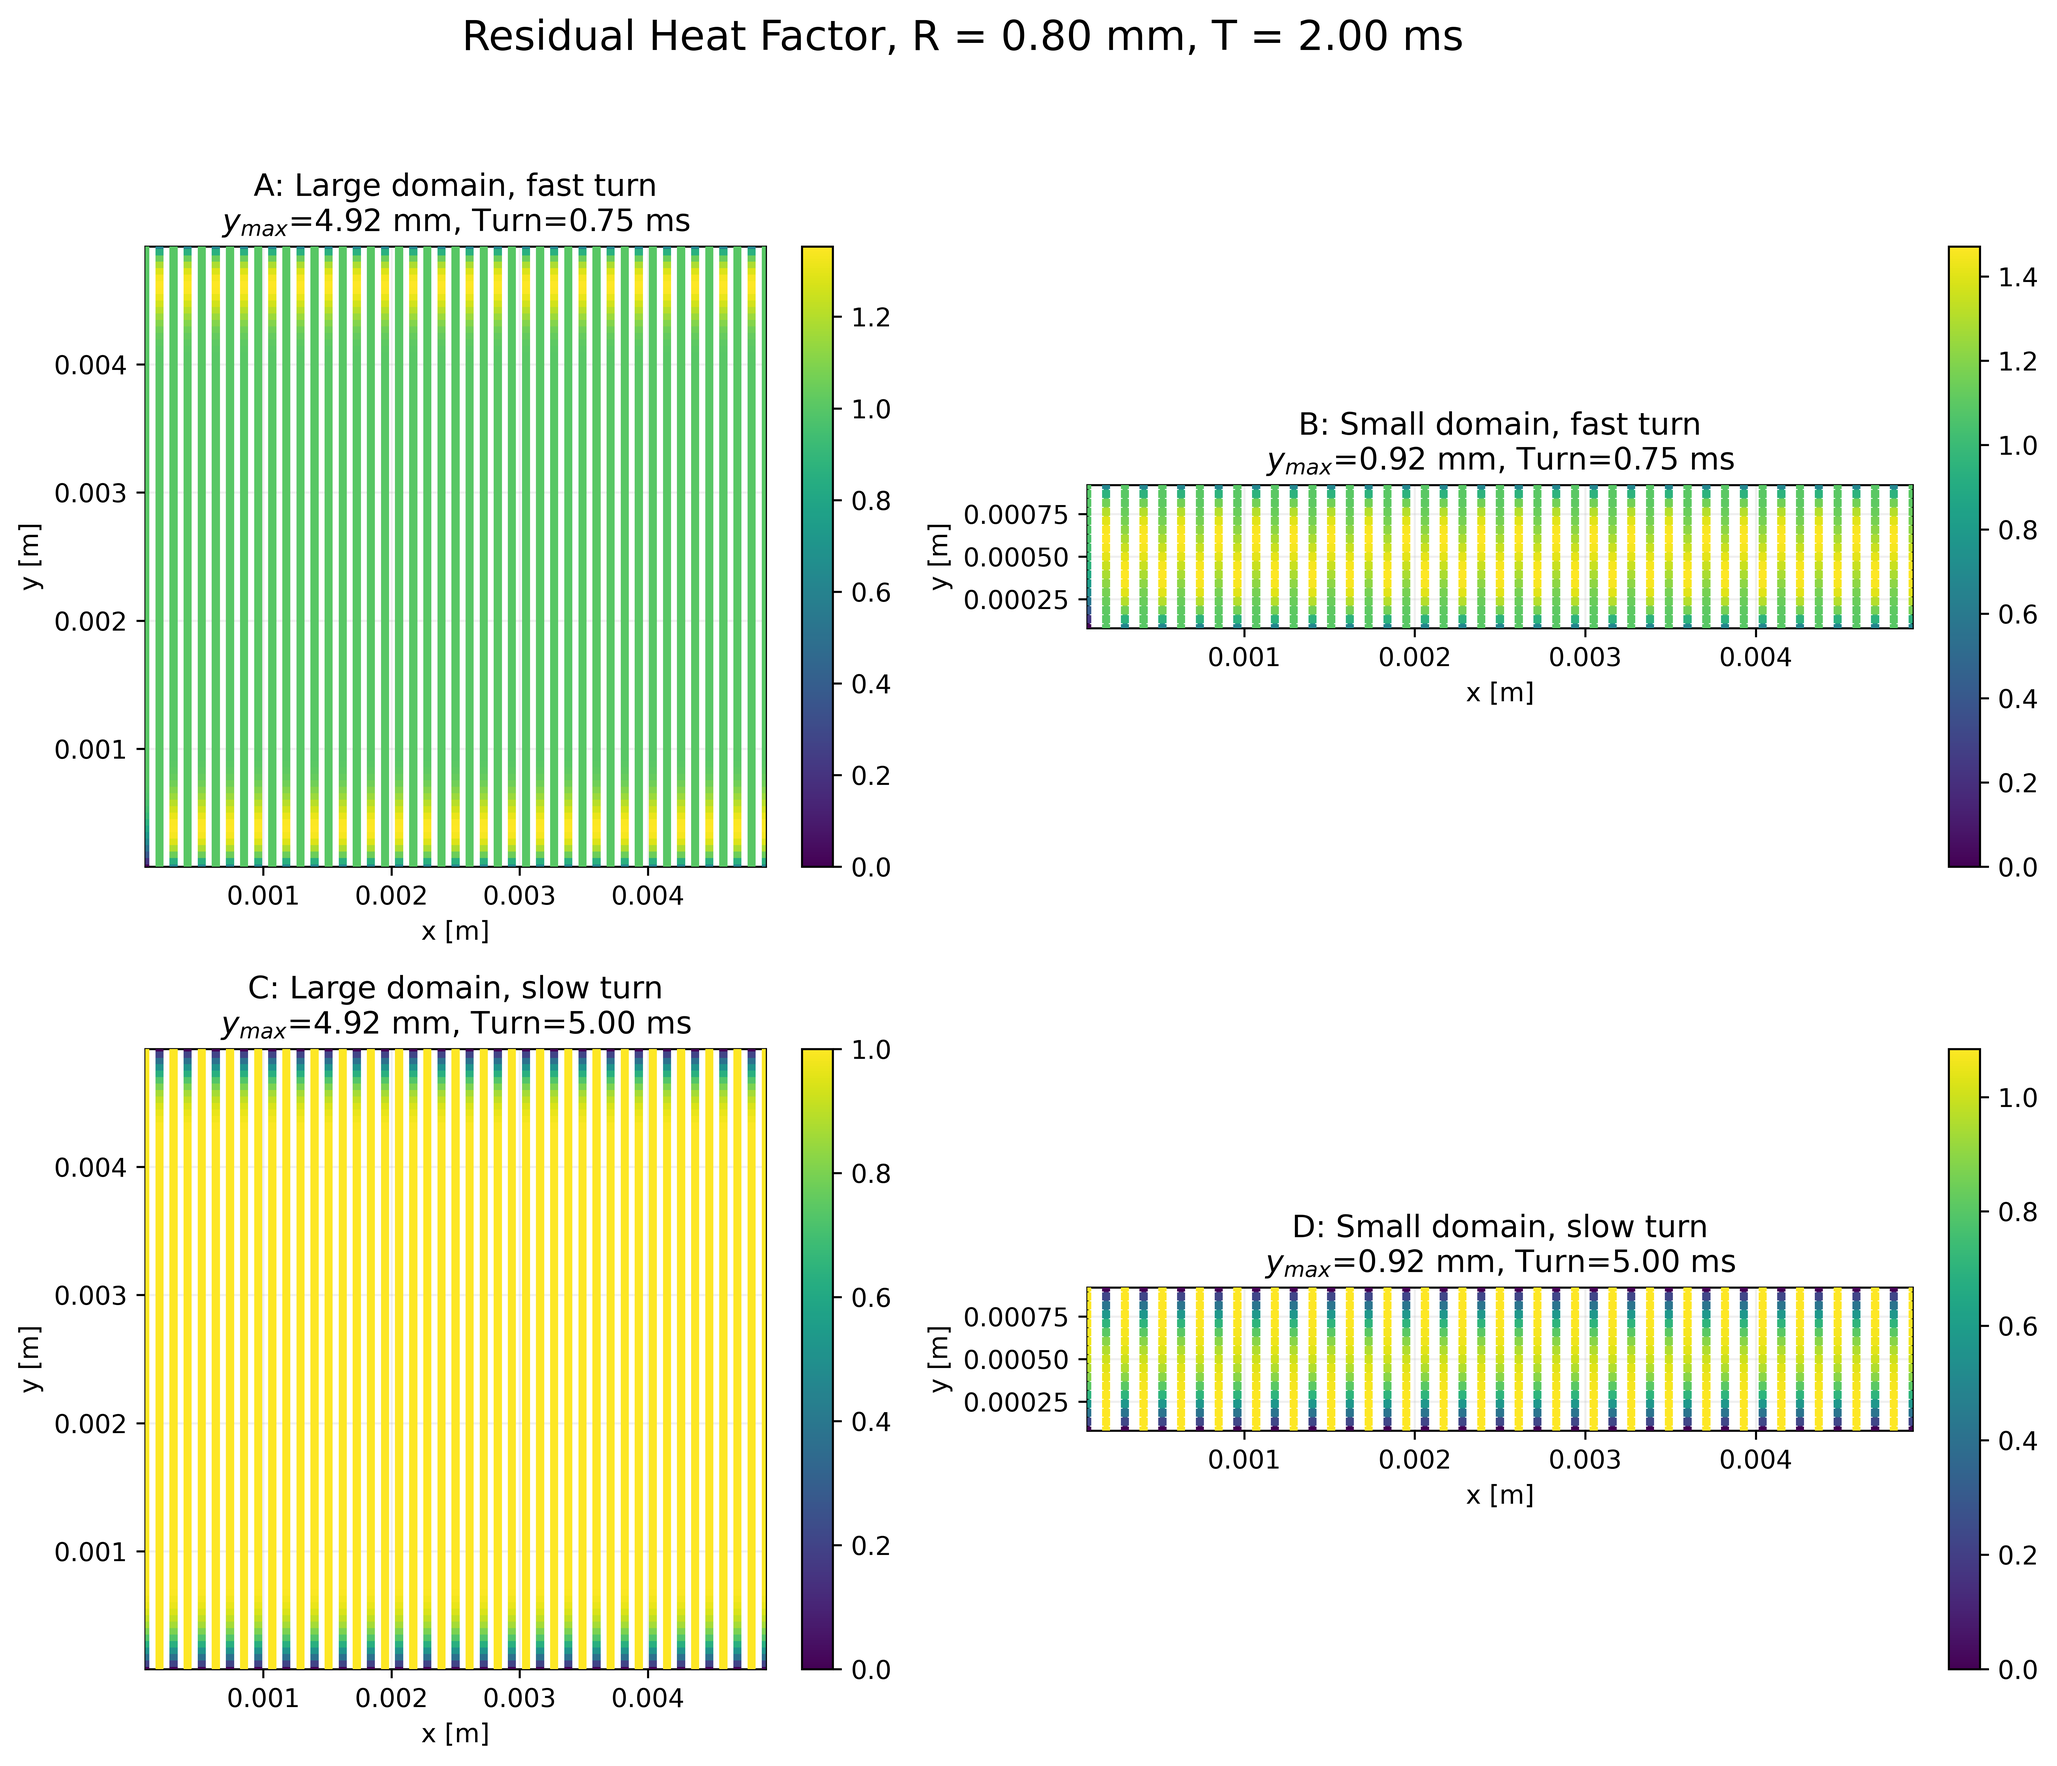
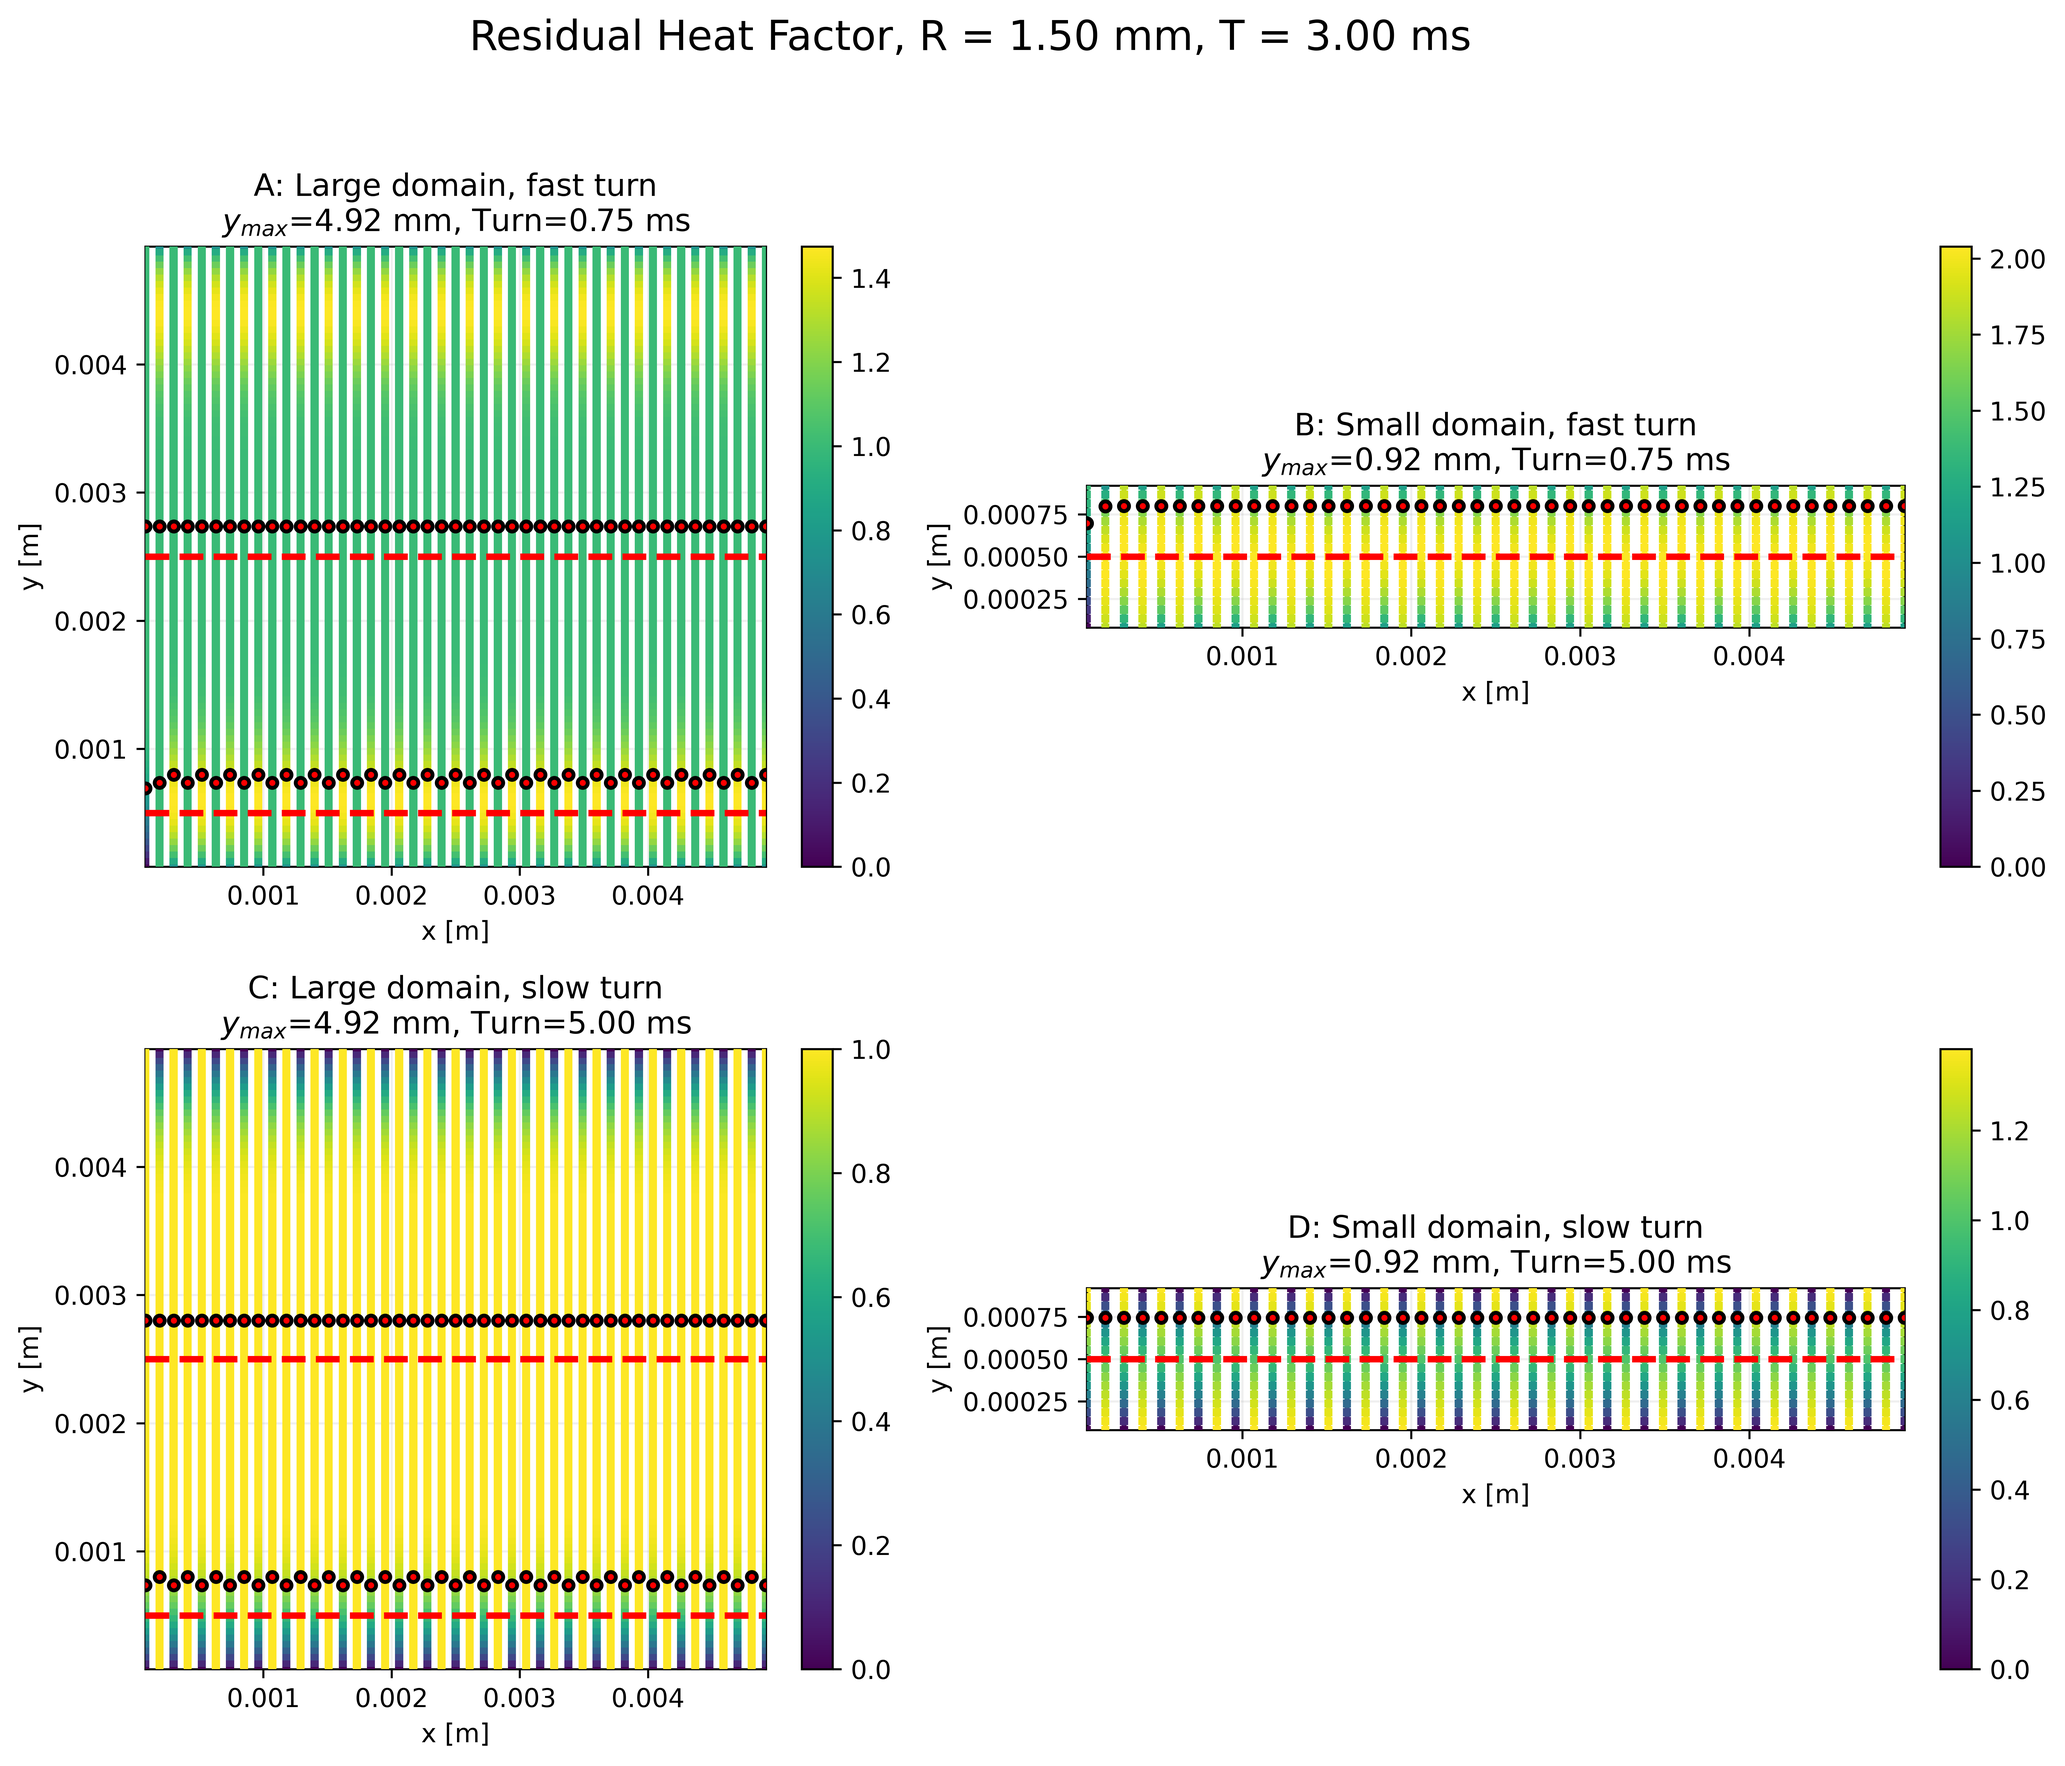
tune rhf parameter bases on cross-section locations

diff --git a/rhf/rhf.py b/rhf/rhf.py
@@ -402,6 +402,61 @@ def plot_all_cases_subplots(R=0.80e-3, T=2.0e-3, filename="rhf_all_cases.png"):
         ax.scatter(pts[:, 0], pts[:, 1], c=rhf, cmap=cmap, norm=norm,
                    s=10, marker='s', edgecolors='none', zorder=3)
 
+        # Add fine red dashed line at y=0.5mm for all cases
+        ax.axhline(0.0005, color='red', linestyle='--', linewidth=2.5, zorder=10)
+        # Add bold red points at intersections with y=0.5mm
+        y_cross = 0.0005
+        # Use the same (large) heights for all domains
+        base_offset_y = 0.00010  # 0.10 mm
+        scale_offset = 0.00020   # 0.20 mm
+        dot_size = 15
+        cross_xs = []
+        cross_ys = []
+        cross_rhfs = []
+        for i in range(len(pts)-1):
+            y0, y1 = pts[i,1], pts[i+1,1]
+            if (y0 - y_cross) * (y1 - y_cross) <= 0 and y0 != y1:
+                x0, x1 = pts[i,0], pts[i+1,0]
+                t = (y_cross - y0) / (y1 - y0)
+                x_cross = x0 + t * (x1 - x0)
+                rhf_cross = rhf[i] + t * (rhf[i+1] - rhf[i])
+                # Offset is base + scaled by normalized rhf
+                rhf_norm = (rhf_cross - np.min(rhf)) / (np.max(rhf) - np.min(rhf) + 1e-12)
+                y_offset = base_offset_y + scale_offset * rhf_norm
+                cross_xs.append(x_cross)
+                cross_ys.append(y_cross + y_offset)
+                cross_rhfs.append(rhf_cross)
+        if cross_xs:
+            ax.scatter(cross_xs, cross_ys,
+                       color='red', s=dot_size, marker='o', edgecolor='black', linewidth=1.5, zorder=20)
+
+        # Add fine red dashed line at y=2.5mm for large cases (y_max > 0.003)
+        if y_max > 0.003:
+            ax.axhline(0.0025, color='red', linestyle='--', linewidth=2.5, zorder=10)
+            # Add bold red points at intersections with y=2.5mm
+            y_cross2 = 0.0025
+            base_offset_y2 = 0.00010
+            scale_offset2 = 0.00020
+            dot_size2 = 15
+            cross_xs2 = []
+            cross_ys2 = []
+            cross_rhfs2 = []
+            for i in range(len(pts)-1):
+                y0, y1 = pts[i,1], pts[i+1,1]
+                if (y0 - y_cross2) * (y1 - y_cross2) <= 0 and y0 != y1:
+                    x0, x1 = pts[i,0], pts[i+1,0]
+                    t = (y_cross2 - y0) / (y1 - y0)
+                    x_cross = x0 + t * (x1 - x0)
+                    rhf_cross = rhf[i] + t * (rhf[i+1] - rhf[i])
+                    rhf_norm2 = (rhf_cross - np.min(rhf)) / (np.max(rhf) - np.min(rhf) + 1e-12)
+                    y_offset2 = base_offset_y2 + scale_offset2 * rhf_norm2
+                    cross_xs2.append(x_cross)
+                    cross_ys2.append(y_cross2 + y_offset2)
+                    cross_rhfs2.append(rhf_cross)
+            if cross_xs2:
+                ax.scatter(cross_xs2, cross_ys2,
+                           color='red', s=dot_size2, marker='o', edgecolor='black', linewidth=1.5, zorder=20)
+
         sm = plt.cm.ScalarMappable(cmap=cmap, norm=norm)
         sm.set_array([])
         cb = fig.colorbar(sm, ax=ax, fraction=0.046, pad=0.04)
@@ -422,7 +477,7 @@ def plot_all_cases_subplots(R=0.80e-3, T=2.0e-3, filename="rhf_all_cases.png"):
     print(f"Saved: {outpath}")
 
 # Call the new function to generate the single figure with 4 subplots
-plot_all_cases_subplots(R=0.80e-3, T=2.0e-3, filename="rhf_all_cases.png")
+plot_all_cases_subplots(R=1.50e-3, T=3.0e-3, filename="rhf_all_cases.png")
 
 # Print simulation duration analysis
 print_simulation_durations()
